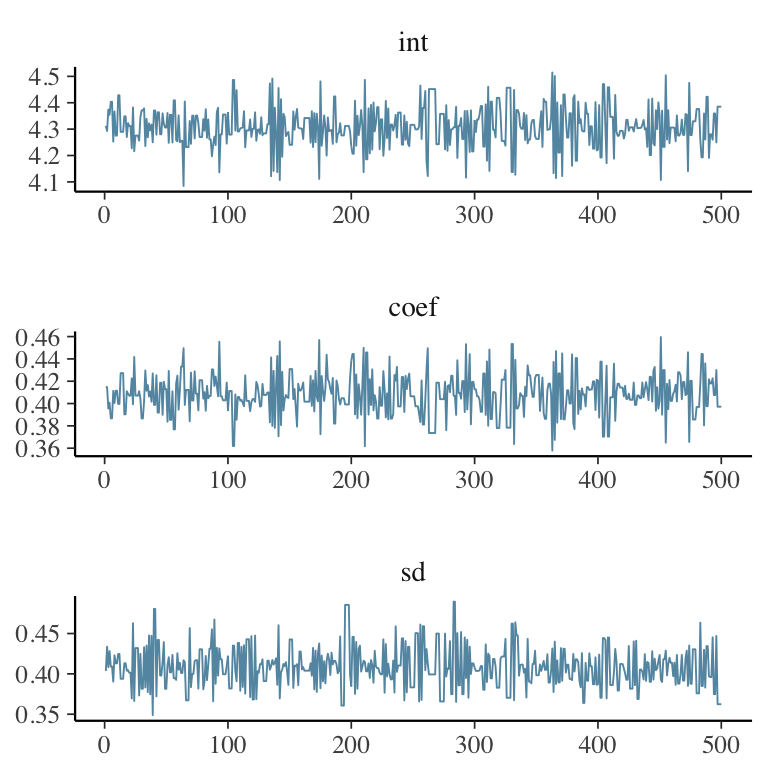
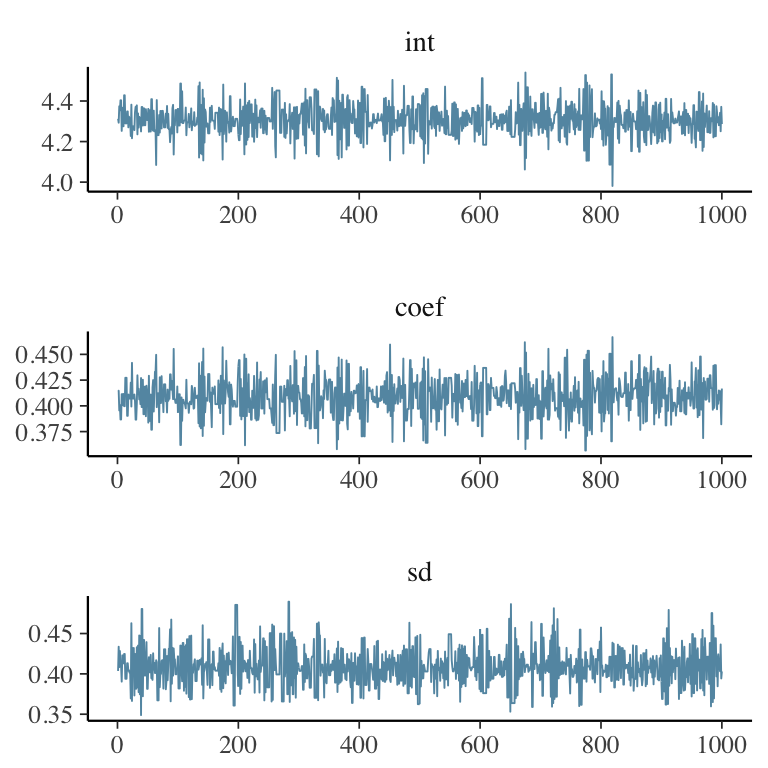
rebuild site and vignettes

diff --git a/inst/doc/how_does_this_work.html b/inst/doc/how_does_this_work.html
@@ -69,7 +69,7 @@ h6 {
 }
 </style>
 
-<link href="data:text/css;charset=utf-8,body%7B%0Afont%2Dsize%3A%2016px%3B%0A%7D%0Apre%7B%0Abackground%2Dcolor%3A%20transparent%3B%0Aborder%3A%201px%20solid%20%23f4f0f9%3B%0Aborder%2Dradius%3A%200%3B%0Acolor%3A%20%23696969%3B%0A%7D%0A%2Er%7B%0Abackground%2Dcolor%3A%20%23f4f0f9%3B%0Aborder%3A%20none%3B%0Aborder%2Dradius%3A%200%3B%0Aline%2Dheight%3A%201%2E5%3B%0A%7D%0A%2Elist%2Dgroup%2Ditem%2Eactive%2C%0A%2Elist%2Dgroup%2Ditem%2Eactive%3Ahover%2C%0A%2Elist%2Dgroup%2Ditem%2Eactive%3Afocus%20%7B%0Abackground%2Dcolor%3A%20%23A379CC%3B%0Aborder%2Dcolor%3A%20%23A379CC7%3B%0A%7D%0Ahr%20%7B%0Aheight%3A8px%3B%0Aborder%2Dwidth%3A%202px%3B%0A%7D%0Acode%20%7B%0Abackground%2Dcolor%3A%20%23f4f0f9%3B%0A%7D%0A%2Enavbar%2C%0A%2Enavbar%2Ddefault%2C%0A%2Enavbar%2Dright%20%7B%0Aborder%2Dcolor%3A%20%23A379CC%3B%0Abackground%2Dcolor%3A%20%23A379CC%3B%0Afont%2Dsize%3A%2014px%3B%0Aline%2Dheight%3A%2020px%3B%0Aheight%3A%2020px%3B%0Amin%2Dheight%3A%2040px%3B%0Apadding%2Dtop%3A%200%3B%0A%7D%0A%2Enavbar%2Ddefault%20%2Enavbar%2Dcollapse%2C%0A%2Enavbar%2Ddefault%20%2Enavbar%2Dform%20%7B%0Abackground%2Dcolor%3A%20%23A379CC%3B%0A%7D%0A%2Enavbar%2Ddefault%20%2Enavbar%2Dnav%3Eli%3Ea%20%7B%0Apadding%2Dtop%3A%2010px%3B%0Apadding%2Dbottom%3A%2010px%3B%0Acolor%3A%20%23F4F0F9%3B%0A%7D%0A%2Enavbar%2Ddefault%20%2Enavbar%2Dnav%3Eli%3Ea%3Ahover%2C%0A%2Enavbar%2Ddefault%20%2Enavbar%2Dnav%3Eli%3Ea%3Afocus%2C%0A%2Enavbar%2Ddefault%20%2Enavbar%2Dnav%3E%2Eactive%3Ea%2C%0A%2Enavbar%2Ddefault%20%2Enavbar%2Dnav%3E%2Eactive%3Ea%3Ahover%2C%0A%2Enavbar%2Ddefault%20%2Enavbar%2Dnav%3E%2Eactive%3Ea%3Afocus%20%7B%0Acolor%3A%20%23ffffff%3B%0A%7D%0A%2Edropdown%2Dmenu%3E%2Eactive%3Ea%2C%0A%2Edropdown%2Dmenu%3E%2Eactive%3Ea%3Ahover%2C%0A%2Edropdown%2Dmenu%3E%2Eactive%3Ea%3Afocus%20%7B%0Acolor%3A%20%23ffffff%3B%0Atext%2Ddecoration%3A%20none%3B%0Aoutline%3A%200%3B%0Abackground%2Dcolor%3A%20%23A379CC%3B%0A%7D%0A%2Edropdown%2Dmenu%3Eli%3Ea%20%7B%0Acolor%3A%20%23555555%3B%0Awhite%2Dspace%3A%20nowrap%3B%0A%7D%0A%2Ebullet%7B%0Acolor%3A%238960B3%3B%0Afont%2Dsize%3A%2036px%3B%0A%7D%0A%2Eresource%2C%0A%2Eresource%20%3E%20p%7B%0Acolor%3A%20%238960B3%3B%0Afont%2Dsize%3A%2032px%3B%0A%7D%0Aa%2C%20a%3Ahover%7B%0Acolor%3A%20%238960B3%3B%0A%7D%0A%2Ecol%2Dmd%2D4%2C%0A%2Ecol%2Dmd%2D5%2C%0A%2Ecol%2Dmd%2D6%7B%0Apadding%2Dtop%3A%2025px%3B%0Apadding%2Dbottom%3A%2025px%3B%0Apadding%2Dleft%3A%2025px%3B%0Apadding%2Dright%3A%2025px%3B%0A%7D%0A%23head%20%7B%0Abackground%2Dcolor%3A%20%23B797D7%3B%0Amax%2Dwidth%3A%20100%25%3B%0Amargin%3A%200%20auto%3B%0A%7D%0A%23header%2Dcontent%20%7B%0Amargin%3A%200%20auto%3B%0Awidth%3A%20940px%3B%0A%7D%0A%23panel1%20%7B%0Abackground%2Dcolor%3A%20%23f7f7f7%3B%0Amax%2Dwidth%3A%20100%25%3B%0Amargin%3A%200%20auto%3B%0A%7D%0A%23bullets%20%7B%0Apadding%2Dleft%3A%205px%3B%0Apadding%2Dright%3A%205px%3B%0Afont%2Dsize%3A%2020px%3B%0Atext%2Dalign%3A%20center%3B%0Amax%2Dwidth%3A%2090%25%3B%0Amargin%2Dleft%3A%20auto%3B%0Amargin%2Dright%3A%20auto%3B%0A%7D%0A%23example%20%7B%0Apadding%2Dleft%3A%2015px%3B%0Apadding%2Dright%3A%2015px%3B%0Afont%2Dsize%3A%2020px%3B%0Amax%2Dwidth%3A%20100%25%3B%0Amargin%2Dleft%3A%20auto%3B%0Amargin%2Dright%3A%20auto%3B%0A%7D%0A" rel="stylesheet" type="text/css" />
+<link href="data:text/css;charset=utf-8,body%7B%0Afont%2Dfamily%3A%20%22Roboto%22%2C%20%22Source%20Sans%20Pro%22%2C%22Helvetica%20Neue%22%2CHelvetica%2CArial%2Csans%2Dserif%3B%0A%7D%0Apre%7B%0Abackground%2Dcolor%3A%20transparent%3B%0Aborder%3A%201px%20solid%20%23f4f0f9%3B%0Aborder%2Dradius%3A%200%3B%0Acolor%3A%20%23696969%3B%0A%7D%0A%2Er%7B%0Abackground%2Dcolor%3A%20%23f4f0f9%3B%0Aborder%3A%20none%3B%0Aborder%2Dradius%3A%200%3B%0Aline%2Dheight%3A%201%2E5%3B%0A%7D%0Abody%2C%20pre%2C%20%2Er%20%7B%0Afont%2Dsize%3A%2017px%3B%0A%7D%0A%2Elist%2Dgroup%2Ditem%2Eactive%2C%0A%2Elist%2Dgroup%2Ditem%2Eactive%3Ahover%2C%0A%2Elist%2Dgroup%2Ditem%2Eactive%3Afocus%20%7B%0Abackground%2Dcolor%3A%20%23A379CC%3B%0Aborder%3A%20none%3B%0A%7D%0Ahr%20%7B%0Aheight%3A8px%3B%0Aborder%2Dwidth%3A%202px%3B%0A%7D%0Acode%20%7B%0Abackground%2Dcolor%3A%20%23f4f0f9%3B%0A%7D%0Ah1%2C%20p%7B%0Amargin%2Dbottom%3A%2025px%3B%0A%7D%0Ah2%2C%20h3%20%7B%0Amargin%2Dbottom%3A%2015px%3B%0A%7D%0A%2Enavbar%2C%0A%2Enavbar%2Ddefault%2C%0A%2Enavbar%2Dright%20%7B%0Aborder%3A%20none%3B%0Abackground%2Dcolor%3A%20%23A379CC%3B%0Afont%2Dsize%3A%2015px%3B%0Aline%2Dheight%3A%2025px%3B%0Aheight%3A%20auto%3B%0Amin%2Dheight%3A%2050px%3B%0Apadding%2Dtop%3A%200%3B%0Amargin%2Dbottom%3A%200%3B%0A%7D%0A%2Enavbar%7B%0Abox%2Dshadow%3A%200%203px%2010px%200%20rgba%280%2C0%2C0%2C0%2E2%29%3B%0A%7D%0A%2Enavbar%2Ddefault%20%2Enavbar%2Dtoggle%20%2Eicon%2Dbar%20%7B%0Abackground%2Dcolor%3A%20%23F4F0F9%3B%0A%7D%0A%2Enavbar%2Ddefault%20%2Enavbar%2Dtoggle%3Ahover%2C%0A%2Enavbar%2Ddefault%20%2Enavbar%2Dtoggle%3Afocus%20%7B%0Abackground%2Dcolor%3A%20%238960B3%3B%0A%7D%0A%2Enavbar%2Dheader%7B%0Apadding%2Dtop%3A%205px%3B%0Apadding%2Dbottom%3A%205px%3B%0Aborder%3A%20none%3B%0A%7D%0A%2Enavbar%2Ddefault%20%2Enavbar%2Dcollapse%2C%0A%2Enavbar%2Ddefault%20%2Enavbar%2Dform%20%7B%0Abackground%2Dcolor%3A%20%23A379CC%3B%0Aborder%3A%20none%3B%0A%7D%0A%2Enavbar%2Ddefault%20%2Enavbar%2Dnav%3Eli%3Ea%20%7B%0Apadding%2Dtop%3A%2015px%3B%0Apadding%2Dbottom%3A%2015px%3B%0Acolor%3A%20%23F4F0F9%3B%0A%7D%0A%2Enavbar%2Ddefault%20%2Enavbar%2Dnav%3Eli%3Ea%3Ahover%2C%0A%2Enavbar%2Ddefault%20%2Enavbar%2Dnav%3Eli%3Ea%3Afocus%2C%0A%2Enavbar%2Ddefault%20%2Enavbar%2Dnav%3E%2Eactive%3Ea%2C%0A%2Enavbar%2Ddefault%20%2Enavbar%2Dnav%3E%2Eactive%3Ea%3Ahover%2C%0A%2Enavbar%2Ddefault%20%2Enavbar%2Dnav%3E%2Eactive%3Ea%3Afocus%20%7B%0Acolor%3A%20%23ffffff%3B%0A%7D%0A%2Edropdown%2Dmenu%7B%0Aborder%3A%20none%3B%0Apadding%2Dtop%3A%200%3B%0Apadding%2Dbottom%3A%200%3B%0A%7D%0A%2Edropdown%2Dmenu%3Eli%3Ea%3Ahover%2C%0A%2Edropdown%2Dmenu%3Eli%3Ea%3Afocus%2C%0A%2Edropdown%2Dmenu%3E%2Eactive%3Ea%2C%0A%2Edropdown%2Dmenu%3E%2Eactive%3Ea%3Ahover%2C%0A%2Edropdown%2Dmenu%3E%2Eactive%3Ea%3Afocus%2C%0A%2Enavbar%2Ddefault%20%2Enavbar%2Dnav%20%2Eopen%20%2Edropdown%2Dmenu%3Eli%3Ea%3Ahover%2C%0A%2Enavbar%2Ddefault%20%2Enavbar%2Dnav%20%2Eopen%20%2Edropdown%2Dmenu%3Eli%3Ea%3Afocus%2C%0A%2Enavbar%2Ddefault%20%2Enavbar%2Dnav%20%2Eopen%20%2Edropdown%2Dmenu%3E%2Eactive%3Ea%2C%0A%2Enavbar%2Ddefault%20%2Enavbar%2Dnav%20%2Eopen%20%2Edropdown%2Dmenu%3E%2Eactive%3Ea%3Ahover%2C%0A%2Enavbar%2Ddefault%20%2Enavbar%2Dnav%20%2Eopen%20%2Edropdown%2Dmenu%3E%2Eactive%3Ea%3Afocus%7B%0Acolor%3A%20%23ffffff%3B%0Atext%2Ddecoration%3A%20none%3B%0Aoutline%3A%200%3B%0Abackground%2Dcolor%3A%20%23A379CC%3B%0A%7D%0A%2Edropdown%2Dmenu%3Eli%3Ea%2C%0A%2Enavbar%2Ddefault%20%2Enavbar%2Dnav%20%2Eopen%20%2Edropdown%2Dmenu%3Eli%3Ea%7B%0Acolor%3A%20%23F4F0F9%3B%0Abackground%2Dcolor%3A%20%23A379CC%3B%0Awhite%2Dspace%3A%20nowrap%3B%0A%7D%0A" rel="stylesheet" type="text/css" />
 
 </head>
 
@@ -281,7 +281,7 @@ class(x$node$value())</code></pre>
              tf$constant(self$value(), dtype = tf_float()),
              envir = dag$tf_environment)
     }
-&lt;environment: 0x122c6f840&gt;</code></pre>
+&lt;environment: 0x124bfc108&gt;</code></pre>
 <p>Because R6 objects are pass-by-reference (rather than pass-by-copy), the dag accumulates all of the defined tensors, rather than being re-written each time. Similarly, because nodes are R6 objects and know which are their children, they can make sure those children are defined as tensors before they are. The <code>define_tf()</code> member function ensures that that happens, enabling operation nodes to use the tensors for their children when defining their own tensor.</p>
 <pre class="r"><code>z$node$tf</code></pre>
 <pre><code>function (dag) {
@@ -307,7 +307,7 @@ class(x$node$value())</code></pre>
       assign(dag$tf_name(self), node, envir = dag$tf_environment)
 
     }
-&lt;environment: 0x122e59580&gt;</code></pre>
+&lt;environment: 0x1257826d0&gt;</code></pre>
 </div>
 </div>
 <div id="variables-and-free-states" class="section level2">
@@ -343,7 +343,7 @@ class(a$node)</code></pre>
       y
 
     }
-&lt;environment: 0x124353000&gt;</code></pre>
+&lt;environment: 0x128983120&gt;</code></pre>
 </div>
 <div id="distributions" class="section level2">
 <h2>distributions</h2>
@@ -376,7 +376,7 @@ class(b$node$distribution$target)</code></pre>
 
       ld
     }
-&lt;environment: 0x1245caab0&gt;</code></pre>
+&lt;environment: 0x11c6cccd0&gt;</code></pre>
 <p>If the distribution was truncated, the log density is normalised using the cumulative distribution function.</p>
 </div>
 <div id="joint-density" class="section level2">
@@ -397,7 +397,7 @@ model$dag$send_parameters</code></pre>
            parameter_dict &lt;- do.call(dict, parameters))
 
     }
-&lt;environment: 0x106491d08&gt;</code></pre>
+&lt;environment: 0x130705540&gt;</code></pre>
 <pre class="r"><code>model$dag$log_density</code></pre>
 <pre><code>function() {
 
@@ -405,13 +405,13 @@ model$dag$send_parameters</code></pre>
            sess$run(joint_density, feed_dict = parameter_dict))
 
     }
-&lt;environment: 0x106491d08&gt;</code></pre>
+&lt;environment: 0x130705540&gt;</code></pre>
 <pre class="r"><code>model$dag$gradients</code></pre>
 <pre><code>function () {
       with(self$tf_environment,
            sess$run(gradients, feed_dict = parameter_dict))
     }
-&lt;environment: 0x106491d08&gt;</code></pre>
+&lt;environment: 0x130705540&gt;</code></pre>
 <p>These methods are used by MCMC samplers to explore the model parameters.</p>
 </div>
 

diff --git a/inst/doc/example_models.html b/inst/doc/example_models.html
@@ -69,7 +69,7 @@ h6 {
 }
 </style>
 
-<link href="data:text/css;charset=utf-8,body%7B%0Afont%2Dsize%3A%2016px%3B%0A%7D%0Apre%7B%0Abackground%2Dcolor%3A%20transparent%3B%0Aborder%3A%201px%20solid%20%23f4f0f9%3B%0Aborder%2Dradius%3A%200%3B%0Acolor%3A%20%23696969%3B%0A%7D%0A%2Er%7B%0Abackground%2Dcolor%3A%20%23f4f0f9%3B%0Aborder%3A%20none%3B%0Aborder%2Dradius%3A%200%3B%0Aline%2Dheight%3A%201%2E5%3B%0A%7D%0A%2Elist%2Dgroup%2Ditem%2Eactive%2C%0A%2Elist%2Dgroup%2Ditem%2Eactive%3Ahover%2C%0A%2Elist%2Dgroup%2Ditem%2Eactive%3Afocus%20%7B%0Abackground%2Dcolor%3A%20%23A379CC%3B%0Aborder%2Dcolor%3A%20%23A379CC7%3B%0A%7D%0Ahr%20%7B%0Aheight%3A8px%3B%0Aborder%2Dwidth%3A%202px%3B%0A%7D%0Acode%20%7B%0Abackground%2Dcolor%3A%20%23f4f0f9%3B%0A%7D%0A%2Enavbar%2C%0A%2Enavbar%2Ddefault%2C%0A%2Enavbar%2Dright%20%7B%0Aborder%2Dcolor%3A%20%23A379CC%3B%0Abackground%2Dcolor%3A%20%23A379CC%3B%0Afont%2Dsize%3A%2014px%3B%0Aline%2Dheight%3A%2020px%3B%0Aheight%3A%2020px%3B%0Amin%2Dheight%3A%2040px%3B%0Apadding%2Dtop%3A%200%3B%0A%7D%0A%2Enavbar%2Ddefault%20%2Enavbar%2Dcollapse%2C%0A%2Enavbar%2Ddefault%20%2Enavbar%2Dform%20%7B%0Abackground%2Dcolor%3A%20%23A379CC%3B%0A%7D%0A%2Enavbar%2Ddefault%20%2Enavbar%2Dnav%3Eli%3Ea%20%7B%0Apadding%2Dtop%3A%2010px%3B%0Apadding%2Dbottom%3A%2010px%3B%0Acolor%3A%20%23F4F0F9%3B%0A%7D%0A%2Enavbar%2Ddefault%20%2Enavbar%2Dnav%3Eli%3Ea%3Ahover%2C%0A%2Enavbar%2Ddefault%20%2Enavbar%2Dnav%3Eli%3Ea%3Afocus%2C%0A%2Enavbar%2Ddefault%20%2Enavbar%2Dnav%3E%2Eactive%3Ea%2C%0A%2Enavbar%2Ddefault%20%2Enavbar%2Dnav%3E%2Eactive%3Ea%3Ahover%2C%0A%2Enavbar%2Ddefault%20%2Enavbar%2Dnav%3E%2Eactive%3Ea%3Afocus%20%7B%0Acolor%3A%20%23ffffff%3B%0A%7D%0A%2Edropdown%2Dmenu%3E%2Eactive%3Ea%2C%0A%2Edropdown%2Dmenu%3E%2Eactive%3Ea%3Ahover%2C%0A%2Edropdown%2Dmenu%3E%2Eactive%3Ea%3Afocus%20%7B%0Acolor%3A%20%23ffffff%3B%0Atext%2Ddecoration%3A%20none%3B%0Aoutline%3A%200%3B%0Abackground%2Dcolor%3A%20%23A379CC%3B%0A%7D%0A%2Edropdown%2Dmenu%3Eli%3Ea%20%7B%0Acolor%3A%20%23555555%3B%0Awhite%2Dspace%3A%20nowrap%3B%0A%7D%0A%2Ebullet%7B%0Acolor%3A%238960B3%3B%0Afont%2Dsize%3A%2036px%3B%0A%7D%0A%2Eresource%2C%0A%2Eresource%20%3E%20p%7B%0Acolor%3A%20%238960B3%3B%0Afont%2Dsize%3A%2032px%3B%0A%7D%0Aa%2C%20a%3Ahover%7B%0Acolor%3A%20%238960B3%3B%0A%7D%0A%2Ecol%2Dmd%2D4%2C%0A%2Ecol%2Dmd%2D5%2C%0A%2Ecol%2Dmd%2D6%7B%0Apadding%2Dtop%3A%2025px%3B%0Apadding%2Dbottom%3A%2025px%3B%0Apadding%2Dleft%3A%2025px%3B%0Apadding%2Dright%3A%2025px%3B%0A%7D%0A%23head%20%7B%0Abackground%2Dcolor%3A%20%23B797D7%3B%0Amax%2Dwidth%3A%20100%25%3B%0Amargin%3A%200%20auto%3B%0A%7D%0A%23header%2Dcontent%20%7B%0Amargin%3A%200%20auto%3B%0Awidth%3A%20940px%3B%0A%7D%0A%23panel1%20%7B%0Abackground%2Dcolor%3A%20%23f7f7f7%3B%0Amax%2Dwidth%3A%20100%25%3B%0Amargin%3A%200%20auto%3B%0A%7D%0A%23bullets%20%7B%0Apadding%2Dleft%3A%205px%3B%0Apadding%2Dright%3A%205px%3B%0Afont%2Dsize%3A%2020px%3B%0Atext%2Dalign%3A%20center%3B%0Amax%2Dwidth%3A%2090%25%3B%0Amargin%2Dleft%3A%20auto%3B%0Amargin%2Dright%3A%20auto%3B%0A%7D%0A%23example%20%7B%0Apadding%2Dleft%3A%2015px%3B%0Apadding%2Dright%3A%2015px%3B%0Afont%2Dsize%3A%2020px%3B%0Amax%2Dwidth%3A%20100%25%3B%0Amargin%2Dleft%3A%20auto%3B%0Amargin%2Dright%3A%20auto%3B%0A%7D%0A" rel="stylesheet" type="text/css" />
+<link href="data:text/css;charset=utf-8,body%7B%0Afont%2Dfamily%3A%20%22Roboto%22%2C%20%22Source%20Sans%20Pro%22%2C%22Helvetica%20Neue%22%2CHelvetica%2CArial%2Csans%2Dserif%3B%0A%7D%0Apre%7B%0Abackground%2Dcolor%3A%20transparent%3B%0Aborder%3A%201px%20solid%20%23f4f0f9%3B%0Aborder%2Dradius%3A%200%3B%0Acolor%3A%20%23696969%3B%0A%7D%0A%2Er%7B%0Abackground%2Dcolor%3A%20%23f4f0f9%3B%0Aborder%3A%20none%3B%0Aborder%2Dradius%3A%200%3B%0Aline%2Dheight%3A%201%2E5%3B%0A%7D%0Abody%2C%20pre%2C%20%2Er%20%7B%0Afont%2Dsize%3A%2017px%3B%0A%7D%0A%2Elist%2Dgroup%2Ditem%2Eactive%2C%0A%2Elist%2Dgroup%2Ditem%2Eactive%3Ahover%2C%0A%2Elist%2Dgroup%2Ditem%2Eactive%3Afocus%20%7B%0Abackground%2Dcolor%3A%20%23A379CC%3B%0Aborder%3A%20none%3B%0A%7D%0Ahr%20%7B%0Aheight%3A8px%3B%0Aborder%2Dwidth%3A%202px%3B%0A%7D%0Acode%20%7B%0Abackground%2Dcolor%3A%20%23f4f0f9%3B%0A%7D%0Ah1%2C%20p%7B%0Amargin%2Dbottom%3A%2025px%3B%0A%7D%0Ah2%2C%20h3%20%7B%0Amargin%2Dbottom%3A%2015px%3B%0A%7D%0A%2Enavbar%2C%0A%2Enavbar%2Ddefault%2C%0A%2Enavbar%2Dright%20%7B%0Aborder%3A%20none%3B%0Abackground%2Dcolor%3A%20%23A379CC%3B%0Afont%2Dsize%3A%2015px%3B%0Aline%2Dheight%3A%2025px%3B%0Aheight%3A%20auto%3B%0Amin%2Dheight%3A%2050px%3B%0Apadding%2Dtop%3A%200%3B%0Amargin%2Dbottom%3A%200%3B%0A%7D%0A%2Enavbar%7B%0Abox%2Dshadow%3A%200%203px%2010px%200%20rgba%280%2C0%2C0%2C0%2E2%29%3B%0A%7D%0A%2Enavbar%2Ddefault%20%2Enavbar%2Dtoggle%20%2Eicon%2Dbar%20%7B%0Abackground%2Dcolor%3A%20%23F4F0F9%3B%0A%7D%0A%2Enavbar%2Ddefault%20%2Enavbar%2Dtoggle%3Ahover%2C%0A%2Enavbar%2Ddefault%20%2Enavbar%2Dtoggle%3Afocus%20%7B%0Abackground%2Dcolor%3A%20%238960B3%3B%0A%7D%0A%2Enavbar%2Dheader%7B%0Apadding%2Dtop%3A%205px%3B%0Apadding%2Dbottom%3A%205px%3B%0Aborder%3A%20none%3B%0A%7D%0A%2Enavbar%2Ddefault%20%2Enavbar%2Dcollapse%2C%0A%2Enavbar%2Ddefault%20%2Enavbar%2Dform%20%7B%0Abackground%2Dcolor%3A%20%23A379CC%3B%0Aborder%3A%20none%3B%0A%7D%0A%2Enavbar%2Ddefault%20%2Enavbar%2Dnav%3Eli%3Ea%20%7B%0Apadding%2Dtop%3A%2015px%3B%0Apadding%2Dbottom%3A%2015px%3B%0Acolor%3A%20%23F4F0F9%3B%0A%7D%0A%2Enavbar%2Ddefault%20%2Enavbar%2Dnav%3Eli%3Ea%3Ahover%2C%0A%2Enavbar%2Ddefault%20%2Enavbar%2Dnav%3Eli%3Ea%3Afocus%2C%0A%2Enavbar%2Ddefault%20%2Enavbar%2Dnav%3E%2Eactive%3Ea%2C%0A%2Enavbar%2Ddefault%20%2Enavbar%2Dnav%3E%2Eactive%3Ea%3Ahover%2C%0A%2Enavbar%2Ddefault%20%2Enavbar%2Dnav%3E%2Eactive%3Ea%3Afocus%20%7B%0Acolor%3A%20%23ffffff%3B%0A%7D%0A%2Edropdown%2Dmenu%7B%0Aborder%3A%20none%3B%0Apadding%2Dtop%3A%200%3B%0Apadding%2Dbottom%3A%200%3B%0A%7D%0A%2Edropdown%2Dmenu%3Eli%3Ea%3Ahover%2C%0A%2Edropdown%2Dmenu%3Eli%3Ea%3Afocus%2C%0A%2Edropdown%2Dmenu%3E%2Eactive%3Ea%2C%0A%2Edropdown%2Dmenu%3E%2Eactive%3Ea%3Ahover%2C%0A%2Edropdown%2Dmenu%3E%2Eactive%3Ea%3Afocus%2C%0A%2Enavbar%2Ddefault%20%2Enavbar%2Dnav%20%2Eopen%20%2Edropdown%2Dmenu%3Eli%3Ea%3Ahover%2C%0A%2Enavbar%2Ddefault%20%2Enavbar%2Dnav%20%2Eopen%20%2Edropdown%2Dmenu%3Eli%3Ea%3Afocus%2C%0A%2Enavbar%2Ddefault%20%2Enavbar%2Dnav%20%2Eopen%20%2Edropdown%2Dmenu%3E%2Eactive%3Ea%2C%0A%2Enavbar%2Ddefault%20%2Enavbar%2Dnav%20%2Eopen%20%2Edropdown%2Dmenu%3E%2Eactive%3Ea%3Ahover%2C%0A%2Enavbar%2Ddefault%20%2Enavbar%2Dnav%20%2Eopen%20%2Edropdown%2Dmenu%3E%2Eactive%3Ea%3Afocus%7B%0Acolor%3A%20%23ffffff%3B%0Atext%2Ddecoration%3A%20none%3B%0Aoutline%3A%200%3B%0Abackground%2Dcolor%3A%20%23A379CC%3B%0A%7D%0A%2Edropdown%2Dmenu%3Eli%3Ea%2C%0A%2Enavbar%2Ddefault%20%2Enavbar%2Dnav%20%2Eopen%20%2Edropdown%2Dmenu%3Eli%3Ea%7B%0Acolor%3A%20%23F4F0F9%3B%0Abackground%2Dcolor%3A%20%23A379CC%3B%0Awhite%2Dspace%3A%20nowrap%3B%0A%7D%0A" rel="stylesheet" type="text/css" />
 
 </head>
 

diff --git a/inst/doc/getting_started.html b/inst/doc/getting_started.html
@@ -69,7 +69,7 @@ h6 {
 }
 </style>
 
-<link href="data:text/css;charset=utf-8,body%7B%0Afont%2Dsize%3A%2016px%3B%0A%7D%0Apre%7B%0Abackground%2Dcolor%3A%20transparent%3B%0Aborder%3A%201px%20solid%20%23f4f0f9%3B%0Aborder%2Dradius%3A%200%3B%0Acolor%3A%20%23696969%3B%0A%7D%0A%2Er%7B%0Abackground%2Dcolor%3A%20%23f4f0f9%3B%0Aborder%3A%20none%3B%0Aborder%2Dradius%3A%200%3B%0Aline%2Dheight%3A%201%2E5%3B%0A%7D%0A%2Elist%2Dgroup%2Ditem%2Eactive%2C%0A%2Elist%2Dgroup%2Ditem%2Eactive%3Ahover%2C%0A%2Elist%2Dgroup%2Ditem%2Eactive%3Afocus%20%7B%0Abackground%2Dcolor%3A%20%23A379CC%3B%0Aborder%2Dcolor%3A%20%23A379CC7%3B%0A%7D%0Ahr%20%7B%0Aheight%3A8px%3B%0Aborder%2Dwidth%3A%202px%3B%0A%7D%0Acode%20%7B%0Abackground%2Dcolor%3A%20%23f4f0f9%3B%0A%7D%0A%2Enavbar%2C%0A%2Enavbar%2Ddefault%2C%0A%2Enavbar%2Dright%20%7B%0Aborder%2Dcolor%3A%20%23A379CC%3B%0Abackground%2Dcolor%3A%20%23A379CC%3B%0Afont%2Dsize%3A%2014px%3B%0Aline%2Dheight%3A%2020px%3B%0Aheight%3A%2020px%3B%0Amin%2Dheight%3A%2040px%3B%0Apadding%2Dtop%3A%200%3B%0A%7D%0A%2Enavbar%2Ddefault%20%2Enavbar%2Dcollapse%2C%0A%2Enavbar%2Ddefault%20%2Enavbar%2Dform%20%7B%0Abackground%2Dcolor%3A%20%23A379CC%3B%0A%7D%0A%2Enavbar%2Ddefault%20%2Enavbar%2Dnav%3Eli%3Ea%20%7B%0Apadding%2Dtop%3A%2010px%3B%0Apadding%2Dbottom%3A%2010px%3B%0Acolor%3A%20%23F4F0F9%3B%0A%7D%0A%2Enavbar%2Ddefault%20%2Enavbar%2Dnav%3Eli%3Ea%3Ahover%2C%0A%2Enavbar%2Ddefault%20%2Enavbar%2Dnav%3Eli%3Ea%3Afocus%2C%0A%2Enavbar%2Ddefault%20%2Enavbar%2Dnav%3E%2Eactive%3Ea%2C%0A%2Enavbar%2Ddefault%20%2Enavbar%2Dnav%3E%2Eactive%3Ea%3Ahover%2C%0A%2Enavbar%2Ddefault%20%2Enavbar%2Dnav%3E%2Eactive%3Ea%3Afocus%20%7B%0Acolor%3A%20%23ffffff%3B%0A%7D%0A%2Edropdown%2Dmenu%3E%2Eactive%3Ea%2C%0A%2Edropdown%2Dmenu%3E%2Eactive%3Ea%3Ahover%2C%0A%2Edropdown%2Dmenu%3E%2Eactive%3Ea%3Afocus%20%7B%0Acolor%3A%20%23ffffff%3B%0Atext%2Ddecoration%3A%20none%3B%0Aoutline%3A%200%3B%0Abackground%2Dcolor%3A%20%23A379CC%3B%0A%7D%0A%2Edropdown%2Dmenu%3Eli%3Ea%20%7B%0Acolor%3A%20%23555555%3B%0Awhite%2Dspace%3A%20nowrap%3B%0A%7D%0A%2Ebullet%7B%0Acolor%3A%238960B3%3B%0Afont%2Dsize%3A%2036px%3B%0A%7D%0A%2Eresource%2C%0A%2Eresource%20%3E%20p%7B%0Acolor%3A%20%238960B3%3B%0Afont%2Dsize%3A%2032px%3B%0A%7D%0Aa%2C%20a%3Ahover%7B%0Acolor%3A%20%238960B3%3B%0A%7D%0A%2Ecol%2Dmd%2D4%2C%0A%2Ecol%2Dmd%2D5%2C%0A%2Ecol%2Dmd%2D6%7B%0Apadding%2Dtop%3A%2025px%3B%0Apadding%2Dbottom%3A%2025px%3B%0Apadding%2Dleft%3A%2025px%3B%0Apadding%2Dright%3A%2025px%3B%0A%7D%0A%23head%20%7B%0Abackground%2Dcolor%3A%20%23B797D7%3B%0Amax%2Dwidth%3A%20100%25%3B%0Amargin%3A%200%20auto%3B%0A%7D%0A%23header%2Dcontent%20%7B%0Amargin%3A%200%20auto%3B%0Awidth%3A%20940px%3B%0A%7D%0A%23panel1%20%7B%0Abackground%2Dcolor%3A%20%23f7f7f7%3B%0Amax%2Dwidth%3A%20100%25%3B%0Amargin%3A%200%20auto%3B%0A%7D%0A%23bullets%20%7B%0Apadding%2Dleft%3A%205px%3B%0Apadding%2Dright%3A%205px%3B%0Afont%2Dsize%3A%2020px%3B%0Atext%2Dalign%3A%20center%3B%0Amax%2Dwidth%3A%2090%25%3B%0Amargin%2Dleft%3A%20auto%3B%0Amargin%2Dright%3A%20auto%3B%0A%7D%0A%23example%20%7B%0Apadding%2Dleft%3A%2015px%3B%0Apadding%2Dright%3A%2015px%3B%0Afont%2Dsize%3A%2020px%3B%0Amax%2Dwidth%3A%20100%25%3B%0Amargin%2Dleft%3A%20auto%3B%0Amargin%2Dright%3A%20auto%3B%0A%7D%0A" rel="stylesheet" type="text/css" />
+<link href="data:text/css;charset=utf-8,body%7B%0Afont%2Dfamily%3A%20%22Roboto%22%2C%20%22Source%20Sans%20Pro%22%2C%22Helvetica%20Neue%22%2CHelvetica%2CArial%2Csans%2Dserif%3B%0A%7D%0Apre%7B%0Abackground%2Dcolor%3A%20transparent%3B%0Aborder%3A%201px%20solid%20%23f4f0f9%3B%0Aborder%2Dradius%3A%200%3B%0Acolor%3A%20%23696969%3B%0A%7D%0A%2Er%7B%0Abackground%2Dcolor%3A%20%23f4f0f9%3B%0Aborder%3A%20none%3B%0Aborder%2Dradius%3A%200%3B%0Aline%2Dheight%3A%201%2E5%3B%0A%7D%0Abody%2C%20pre%2C%20%2Er%20%7B%0Afont%2Dsize%3A%2017px%3B%0A%7D%0A%2Elist%2Dgroup%2Ditem%2Eactive%2C%0A%2Elist%2Dgroup%2Ditem%2Eactive%3Ahover%2C%0A%2Elist%2Dgroup%2Ditem%2Eactive%3Afocus%20%7B%0Abackground%2Dcolor%3A%20%23A379CC%3B%0Aborder%3A%20none%3B%0A%7D%0Ahr%20%7B%0Aheight%3A8px%3B%0Aborder%2Dwidth%3A%202px%3B%0A%7D%0Acode%20%7B%0Abackground%2Dcolor%3A%20%23f4f0f9%3B%0A%7D%0Ah1%2C%20p%7B%0Amargin%2Dbottom%3A%2025px%3B%0A%7D%0Ah2%2C%20h3%20%7B%0Amargin%2Dbottom%3A%2015px%3B%0A%7D%0A%2Enavbar%2C%0A%2Enavbar%2Ddefault%2C%0A%2Enavbar%2Dright%20%7B%0Aborder%3A%20none%3B%0Abackground%2Dcolor%3A%20%23A379CC%3B%0Afont%2Dsize%3A%2015px%3B%0Aline%2Dheight%3A%2025px%3B%0Aheight%3A%20auto%3B%0Amin%2Dheight%3A%2050px%3B%0Apadding%2Dtop%3A%200%3B%0Amargin%2Dbottom%3A%200%3B%0A%7D%0A%2Enavbar%7B%0Abox%2Dshadow%3A%200%203px%2010px%200%20rgba%280%2C0%2C0%2C0%2E2%29%3B%0A%7D%0A%2Enavbar%2Ddefault%20%2Enavbar%2Dtoggle%20%2Eicon%2Dbar%20%7B%0Abackground%2Dcolor%3A%20%23F4F0F9%3B%0A%7D%0A%2Enavbar%2Ddefault%20%2Enavbar%2Dtoggle%3Ahover%2C%0A%2Enavbar%2Ddefault%20%2Enavbar%2Dtoggle%3Afocus%20%7B%0Abackground%2Dcolor%3A%20%238960B3%3B%0A%7D%0A%2Enavbar%2Dheader%7B%0Apadding%2Dtop%3A%205px%3B%0Apadding%2Dbottom%3A%205px%3B%0Aborder%3A%20none%3B%0A%7D%0A%2Enavbar%2Ddefault%20%2Enavbar%2Dcollapse%2C%0A%2Enavbar%2Ddefault%20%2Enavbar%2Dform%20%7B%0Abackground%2Dcolor%3A%20%23A379CC%3B%0Aborder%3A%20none%3B%0A%7D%0A%2Enavbar%2Ddefault%20%2Enavbar%2Dnav%3Eli%3Ea%20%7B%0Apadding%2Dtop%3A%2015px%3B%0Apadding%2Dbottom%3A%2015px%3B%0Acolor%3A%20%23F4F0F9%3B%0A%7D%0A%2Enavbar%2Ddefault%20%2Enavbar%2Dnav%3Eli%3Ea%3Ahover%2C%0A%2Enavbar%2Ddefault%20%2Enavbar%2Dnav%3Eli%3Ea%3Afocus%2C%0A%2Enavbar%2Ddefault%20%2Enavbar%2Dnav%3E%2Eactive%3Ea%2C%0A%2Enavbar%2Ddefault%20%2Enavbar%2Dnav%3E%2Eactive%3Ea%3Ahover%2C%0A%2Enavbar%2Ddefault%20%2Enavbar%2Dnav%3E%2Eactive%3Ea%3Afocus%20%7B%0Acolor%3A%20%23ffffff%3B%0A%7D%0A%2Edropdown%2Dmenu%7B%0Aborder%3A%20none%3B%0Apadding%2Dtop%3A%200%3B%0Apadding%2Dbottom%3A%200%3B%0A%7D%0A%2Edropdown%2Dmenu%3Eli%3Ea%3Ahover%2C%0A%2Edropdown%2Dmenu%3Eli%3Ea%3Afocus%2C%0A%2Edropdown%2Dmenu%3E%2Eactive%3Ea%2C%0A%2Edropdown%2Dmenu%3E%2Eactive%3Ea%3Ahover%2C%0A%2Edropdown%2Dmenu%3E%2Eactive%3Ea%3Afocus%2C%0A%2Enavbar%2Ddefault%20%2Enavbar%2Dnav%20%2Eopen%20%2Edropdown%2Dmenu%3Eli%3Ea%3Ahover%2C%0A%2Enavbar%2Ddefault%20%2Enavbar%2Dnav%20%2Eopen%20%2Edropdown%2Dmenu%3Eli%3Ea%3Afocus%2C%0A%2Enavbar%2Ddefault%20%2Enavbar%2Dnav%20%2Eopen%20%2Edropdown%2Dmenu%3E%2Eactive%3Ea%2C%0A%2Enavbar%2Ddefault%20%2Enavbar%2Dnav%20%2Eopen%20%2Edropdown%2Dmenu%3E%2Eactive%3Ea%3Ahover%2C%0A%2Enavbar%2Ddefault%20%2Enavbar%2Dnav%20%2Eopen%20%2Edropdown%2Dmenu%3E%2Eactive%3Ea%3Afocus%7B%0Acolor%3A%20%23ffffff%3B%0Atext%2Ddecoration%3A%20none%3B%0Aoutline%3A%200%3B%0Abackground%2Dcolor%3A%20%23A379CC%3B%0A%7D%0A%2Edropdown%2Dmenu%3Eli%3Ea%2C%0A%2Enavbar%2Ddefault%20%2Enavbar%2Dnav%20%2Eopen%20%2Edropdown%2Dmenu%3Eli%3Ea%7B%0Acolor%3A%20%23F4F0F9%3B%0Abackground%2Dcolor%3A%20%23A379CC%3B%0Awhite%2Dspace%3A%20nowrap%3B%0A%7D%0A" rel="stylesheet" type="text/css" />
 
 </head>
 

diff --git a/docs/getting_started.html b/docs/getting_started.html
@@ -626,15 +626,15 @@ atanh(z_greta)</code></pre>
 <h3>Plotting</h3>
 <p>greta provides a plot function for greta models to help you visualise and check the model before sampling from it.</p>
 <pre class="r"><code>plot(m)</code></pre>
-<p><img src="/var/folders/y8/bwn1d6dx6hs042dp0xz246vc0000gn/T//Rtmpk2wlx5/filee2676abf23df.png" width="800" /></p>
+<p><img src="/private/var/folders/y8/bwn1d6dx6hs042dp0xz246vc0000gn/T/RtmpV3GQiz/file6df548d3e544.png" width="800" /></p>
 <p>The greta arrays in your workspace that are used in the model are all represented as nodes (shapes) with names. These are either data (squares; <code>x</code> and <code>y</code>), variables (large circles; <code>int</code>, <code>coef</code>, <code>sd</code>) or the results of operations (small circles; <code>mean</code>). The operations used to create the operation greta arrays are printed on the arrows from the arrays they were made from. There are also nodes for greta arrays that were <em>implicitly defined</em> in our model. The data nodes (squares) with numbers are the parameters used to define the prior distributions, and there’s also an intermediate operation node (small circle), which was the result of multiplying <code>coef</code> and <code>x</code> (before adding <code>int</code> to create <code>mean</code>).</p>
 <p>Here’s a legend for the plot (it’s in the <code>?`greta-model`</code> helpfile too):</p>
 <p><img src="/Users/nick/Dropbox/github/greta/man/figures/plotlegend.png" width="750" /></p>
 <p>The fourth type of node (diamonds) represents probability distributions. These have greta arrays as parameters (linked via solid lines), and have other greta arrays as <em>values</em>(linked via dashed lines). Distributions calculate the probability density of the <em>values</em>, given the parameters and their distribution type.</p>
 <p>For example, a plot of just the prior distribution over <code>coef</code> (defined as <code>coef = normal(0, 3)</code>) shows the parameters as data leading into the normal distribution, and a dashed arrow leading out to the distribution’s value, the variable <code>coef</code>:</p>
-<p><img src="/var/folders/y8/bwn1d6dx6hs042dp0xz246vc0000gn/T//Rtmpk2wlx5/filee26798c8e6e.png" width="500" /></p>
+<p><img src="/private/var/folders/y8/bwn1d6dx6hs042dp0xz246vc0000gn/T/RtmpV3GQiz/file6df511b641ac.png" width="500" /></p>
 <p>It’s the same for the model likelihood, but this time the distribution’s parameters are a variable (<code>sd</code>) and the result of an operation (<code>mean</code>), and the distribution’s value is given by data (the observed sepal lengths <code>y</code>):</p>
-<p><img src="/var/folders/y8/bwn1d6dx6hs042dp0xz246vc0000gn/T//Rtmpk2wlx5/filee2677c43401.png" width="500" /></p>
+<p><img src="/private/var/folders/y8/bwn1d6dx6hs042dp0xz246vc0000gn/T/RtmpV3GQiz/file6df56838978e.png" width="500" /></p>
 <div id="installing-diagrammer" class="section level4">
 <h4>Installing DiagrammeR</h4>
 <p>These plots are made possible by the <a href="http://rich-iannone.github.io/DiagrammeR/">DiagrammeR R package</a>. Installing greta doesn’t automatically install DiagrammeR, because DiagrammeR auto-installs a number of other packages, such as igraph, that can be time consuming and tedious to install, and aren’t necessary when running greta on high-performance computing systems. If we try to plot but don’t already have DiagrammeR installed, greta will prompt us to do so. We can install DiagrammeR and its dependencies with:</p>

diff --git a/docs/how_does_this_work.html b/docs/how_does_this_work.html
@@ -396,7 +396,7 @@ class(x$node$value())</code></pre>
              tf$constant(self$value(), dtype = tf_float()),
              envir = dag$tf_environment)
     }
-&lt;environment: 0x1310c9380&gt;</code></pre>
+&lt;environment: 0x186083db8&gt;</code></pre>
 <p>Because R6 objects are pass-by-reference (rather than pass-by-copy), the dag accumulates all of the defined tensors, rather than being re-written each time. Similarly, because nodes are R6 objects and know which are their children, they can make sure those children are defined as tensors before they are. The <code>define_tf()</code> member function ensures that that happens, enabling operation nodes to use the tensors for their children when defining their own tensor.</p>
 <pre class="r"><code>z$node$tf</code></pre>
 <pre><code>function (dag) {
@@ -422,7 +422,7 @@ class(x$node$value())</code></pre>
       assign(dag$tf_name(self), node, envir = dag$tf_environment)
 
     }
-&lt;environment: 0x13131a558&gt;</code></pre>
+&lt;environment: 0x17409af18&gt;</code></pre>
 </div>
 </div>
 <div id="variables-and-free-states" class="section level2">
@@ -458,7 +458,7 @@ class(a$node)</code></pre>
       y
 
     }
-&lt;environment: 0x13146d5f0&gt;</code></pre>
+&lt;environment: 0x161e28940&gt;</code></pre>
 </div>
 <div id="distributions" class="section level2">
 <h2>distributions</h2>
@@ -491,7 +491,7 @@ class(b$node$distribution$target)</code></pre>
 
       ld
     }
-&lt;environment: 0x11ae33068&gt;</code></pre>
+&lt;environment: 0x1616b19c0&gt;</code></pre>
 <p>If the distribution was truncated, the log density is normalised using the cumulative distribution function.</p>
 </div>
 <div id="joint-density" class="section level2">
@@ -512,7 +512,7 @@ model$dag$send_parameters</code></pre>
            parameter_dict &lt;- do.call(dict, parameters))
 
     }
-&lt;environment: 0x118047c30&gt;</code></pre>
+&lt;environment: 0x129ebcb78&gt;</code></pre>
 <pre class="r"><code>model$dag$log_density</code></pre>
 <pre><code>function() {
 
@@ -520,13 +520,13 @@ model$dag$send_parameters</code></pre>
            sess$run(joint_density, feed_dict = parameter_dict))
 
     }
-&lt;environment: 0x118047c30&gt;</code></pre>
+&lt;environment: 0x129ebcb78&gt;</code></pre>
 <pre class="r"><code>model$dag$gradients</code></pre>
 <pre><code>function () {
       with(self$tf_environment,
            sess$run(gradients, feed_dict = parameter_dict))
     }
-&lt;environment: 0x118047c30&gt;</code></pre>
+&lt;environment: 0x129ebcb78&gt;</code></pre>
 <p>These methods are used by MCMC samplers to explore the model parameters.</p>
 </div>
 

diff --git a/docs/greta.css b/docs/greta.css
@@ -50,6 +50,13 @@ h2, h3 {
 .navbar{
   box-shadow: 0 3px 10px 0 rgba(0,0,0,0.2);
 }
+.navbar-default .navbar-toggle .icon-bar {
+    background-color: #F4F0F9;
+}
+.navbar-default .navbar-toggle:hover,
+.navbar-default .navbar-toggle:focus {
+    background-color: #8960B3;
+}
 .navbar-header{
   padding-top: 5px;
   padding-bottom: 5px;
@@ -72,15 +79,29 @@ h2, h3 {
 .navbar-default .navbar-nav>.active>a:focus {
   color: #ffffff;
 }
+.dropdown-menu{
+  border: none;
+  padding-top: 0;
+  padding-bottom: 0;
+}
+.dropdown-menu>li>a:hover,
+.dropdown-menu>li>a:focus,
 .dropdown-menu>.active>a,
 .dropdown-menu>.active>a:hover,
-.dropdown-menu>.active>a:focus {
-    color: #ffffff;
-    text-decoration: none;
-    outline: 0;
-    background-color: #A379CC;
+.dropdown-menu>.active>a:focus,
+.navbar-default .navbar-nav .open .dropdown-menu>li>a:hover,
+.navbar-default .navbar-nav .open .dropdown-menu>li>a:focus,
+.navbar-default .navbar-nav .open .dropdown-menu>.active>a,
+.navbar-default .navbar-nav .open .dropdown-menu>.active>a:hover,
+.navbar-default .navbar-nav .open .dropdown-menu>.active>a:focus{
+  color: #ffffff;
+  text-decoration: none;
+  outline: 0;
+  background-color: #A379CC;
 }
-.dropdown-menu>li>a {
-    color: #555555;
-    white-space: nowrap;
+.dropdown-menu>li>a,
+.navbar-default .navbar-nav .open .dropdown-menu>li>a{
+  color: #F4F0F9;
+  background-color: #A379CC;
+  white-space: nowrap;
 }

diff --git a/docs/index.html b/docs/index.html
@@ -293,12 +293,14 @@ a, a:hover{
   max-width : 585px;
   padding-left: 15px;
   padding-right: 15px;
+  padding-top: 45px;
 }
 #main-icon-text{
   color:#ffffff;
   font-size: 24px;
   padding-left: 30px;
   padding-right: 30px;
+  padding-bottom: 30px;
 }
 #panel1 {
   background-color: #f7f7f7;
@@ -328,7 +330,6 @@ a, a:hover{
 <p>
 </p>
 <div id="header-content" class="container">
-<p><br></p>
 <div class="row">
 <p><img id="main-icon" src="main-icon.png" /></p>
 </div>
@@ -337,7 +338,6 @@ a, a:hover{
 simple and scalable statistical modelling in R
 </p>
 </div>
-<p><br></p>
 </div>
 </div>
 <div id="bullets">
@@ -422,7 +422,7 @@ distribution(y) = normal(mean, sd)</code></pre>
 <pre><code>m &lt;- model(int, coef, sd)</code></pre>
 </div>
 <div class="col-md-6">
-<pre><code>draws &lt;- mcmc(m, n_samples = 500)
+<pre><code>draws &lt;- mcmc(m, n_samples = 1000)
 bayesplot::mcmc_trace(draws)</code></pre>
 <p><img src="index_files/figure-html/vis-1.png" width="384" style="display: block; margin: auto;" /></p>
 </div>

diff --git a/docs/greta-model.html b/docs/greta-model.html
@@ -363,7 +363,7 @@ Create a <code>greta_model</code> object representing a statistical model (using
 <h2 class="hasAnchor" id="arguments">
 <a class="anchor" href="#arguments"></a> Arguments
 </h2>
-<code>&amp;#8230;</code>
+<code>...</code>
 <p>
 for <code>model</code>: <code>greta_array</code> objects to be tracked by the model (i.e. those for which samples will be retained during mcmc). If not provided, all of the non-data <code>greta_array</code> objects defined in the calling environment will be tracked. For <code>print</code> and <code>plot</code>:further arguments passed to or from other methods (currently ignored).
 </p>

diff --git a/docs/greta-overloaded.html b/docs/greta-overloaded.html
@@ -357,7 +357,7 @@ greta provides a wide range of methods to apply common R functions and operation
 <h2 class="hasAnchor" id="arguments">
 <a class="anchor" href="#arguments"></a> Arguments
 </h2>
-<code>x</code>, <code>y</code>, <code>nrow</code>, <code>ncol</code>, <code>MARGIN</code>, <code>STATS</code>, <code>FUN</code>, <code>check.margin</code>, <code>&amp;#8230;</code>
+<code>x</code>, <code>y</code>, <code>nrow</code>, <code>ncol</code>, <code>MARGIN</code>, <code>STATS</code>, <code>FUN</code>, <code>check.margin</code>, <code>...</code>
 <p>
 arguments as in original documentation
 </p>
